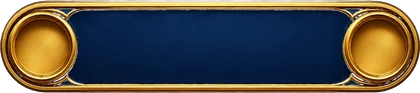
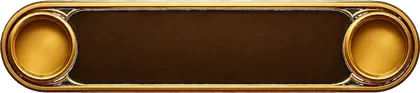
Theme The Unleashed Mine : noms de bonus, minerais, zones, regles, palette, polices ; visuels Higgsfield generes (a integrer)
Claude-Session: https://claude.ai/code/session_0176xjBfP9TdkYXfNsRHRQh2

diff --git a/demo/index.html b/demo/index.html
@@ -4,8 +4,8 @@
 <meta charset="utf-8">
 <meta name="viewport" content="width=device-width,initial-scale=1">
 <link rel="preconnect" href="https://fonts.googleapis.com"><link rel="preconnect" href="https://fonts.gstatic.com" crossorigin>
-<link rel="stylesheet" href="https://fonts.googleapis.com/css2?family=Cinzel:wght@600;800;900&family=Outfit:wght@400;600;800&display=swap">
-<title>Stellar Vigil — démo</title>
+<link rel="stylesheet" href="https://fonts.googleapis.com/css2?family=Alfa+Slab+One&family=Outfit:wght@400;600;800&display=swap">
+<title>The Unleashed Mine — démo</title>
 <style>
   :root{--bg:#0a0e1f;--panel:#121832;--line:#2a3566;--gold:#f3c969;--ink:#e9ecff;--dim:#8a93c4;--star:#8fd3ff;--win:#7dffb2}
   *{box-sizing:border-box}
@@ -299,11 +299,35 @@
   .stage.bonus .dock{margin-bottom:2px}
   button:focus-visible,select:focus-visible{outline:3px solid #fff3c4;outline-offset:2px}
   @media (prefers-reduced-motion:reduce){.cell.reel .strip{animation:none}.dock.crawl{filter:none}.cap.pop,.cap.big{animation:none}}
+  /* ===== Thème The Unleashed Mine : pierre, bois, ambre de lanterne ===== */
+  :root{--bg:#120c07;--panel:#24180e;--line:#5a3f22;--gold:#f0b13a;--ink:#f6e9d2;--dim:#b79b78;--star:#ffd27a;--win:#9dffb8}
+  body{background-color:#0d0804;background-image:linear-gradient(#0d0804d0,#0d0804aa 40%,#0d0804e8),url(art/bg.webp);background-size:cover;background-position:center top}
+  body::before,body::after{opacity:.18}
+  .logo{display:flex;flex-direction:column;align-items:center;justify-content:center;height:58px;margin:0 auto;mix-blend-mode:normal;line-height:.9;font-family:'Alfa Slab One','Georgia',serif;letter-spacing:.14em;text-align:center;filter:drop-shadow(0 3px 0 #3a1f08) drop-shadow(0 0 14px #f0a83066)}
+  .logo span{background:linear-gradient(#fff3c4,#f6b73c 55%,#a8641a);-webkit-background-clip:text;background-clip:text;color:transparent}
+  .logo span:first-child{font-size:15px;letter-spacing:.3em}
+  .logo span:last-child{font-size:30px;letter-spacing:.2em}
+  .stage{background:linear-gradient(160deg,#2e2014 0%,#1b120a 55%,#120b06 100%);border-color:#8a6026;box-shadow:0 0 0 1px #0d0804,0 0 0 3px #3a2410,0 10px 40px #000a,inset 0 0 40px #0008}
+  #base{background:#100a05;box-shadow:inset 0 0 22px #000c,0 0 0 2px #a8742c,0 0 0 4px #3a2410}
+  .cell{background:radial-gradient(circle at 50% 35%,#3a2a1b 0%,#1a1109 70%);border-color:#5a3f22}
+  .sky .cell{background:radial-gradient(circle at 50% 40%,#2a1d12 0%,#120b06 75%);border-color:#4a3320}
+  .zone,.cap,.bhead{background:linear-gradient(#2a1c10,#18100a);border-color:#6a4a26}
+  .cap{color:#f6e9d2}
+  .zone.done{background:linear-gradient(#5a3a10,#2a1a06)}
+  .pips i{background:#4a3320}
+  .hud b,.stepper .betval small{color:#d9b377}
+  .tools button{background:linear-gradient(#3a2814,#22160b);border-color:#8a6026;color:#f6e9d2}
+  .dock .ring{filter:none}
+  .rules .card,.card{background:#150d07f2}
+  .celeb{background:radial-gradient(circle,#0009,#000e)}
+  h1,.spinbtn,.buybtn small,.buybtn b,.tools button,.hud b,.ctier,.card h2,.card .tag,.bhead .bname,.rules h2,.rules h3,.cmult,.stepper .betval small,.cap em{font-family:'Alfa Slab One','Georgia',serif;font-weight:400;letter-spacing:.05em}
+  .spinbtn{font-size:12.5px;letter-spacing:.03em}
+  .bhead .bname{font-size:12px}
 </style>
 </head>
 <body>
 <div class="wrap">
-  <h1 class="vh">Stellar Vigil</h1><img class="logo" src="art/logo.webp" alt="Stellar Vigil">
+  <h1 class="vh">The Unleashed Mine</h1><div class="logo" role="img" aria-label="The Unleashed Mine"><span>THE UNLEASHED</span><span>MINE</span></div>
   <div class="sub">Démo jouable — rejoue de vrais résultats du moteur de maths (RTP 96 %). Argent fictif.</div>
   <div class="hud">
     <div><b>Solde</b><span id="bal">1000.00</span></div>
@@ -359,19 +383,19 @@
 <div class="flash" id="flash"></div>
 <div class="celeb hidden" id="celeb"><canvas id="cv"></canvas><div class="cbox"><div class="ctier" id="ctier"></div><div class="cnum" id="cnum">0.00</div><div class="cmult" id="cmult"></div><div class="ctap">Touchez pour continuer</div></div></div>
 <div class="rules hidden" id="rules"><div class="card">
-  <h2>Règles — Stellar Vigil</h2>
+  <h2>Règles — The Unleashed Mine</h2>
   <h3>Jeu de base</h3>
   <ul><li>Grille 5 × 4, 1 024 façons de gagner, gains de gauche à droite.</li>
-  <li>L'Étoile filante (wild) apparaît sur les colonnes 2 à 4 et remplace tous les symboles sauf la Lunette.</li>
-  <li>Une Étoile à valeur peut tomber sur n'importe quelle colonne et paie sur place de 0,2× à 10× la mise.</li></ul>
-  <h3>Nuit des Constellations</h3>
-  <ul><li>3, 4 ou 5 Lunettes déclenchent 10, 12 ou 15 nuits. Le nombre de nuits est fixe.</li>
-  <li>Chaque nuit, de 0 à 3 étoiles tombent sur un ciel de 5 × 5 ; elles y restent jusqu'à la fin du bonus.</li>
-  <li>Des étoiles voisines forment une constellation : chaque étoile gagne un niveau de valeur par lien, jusqu'à +3. Une étoile qui relie deux constellations ajoute un niveau de plus (conjonction).</li>
-  <li>Compléter une zone paie un multiplicateur fixe, une seule fois par bonus : Horizon (ligne du bas) 20×, Méridien (colonne centrale) 100×, Quadrature (les 4 coins) 1 000×, Firmament (ciel complet) 10 000×. Ces multiplicateurs ne sont pas progressifs.</li></ul>
-  <h3>Roues et bonus (version à deux roues)</h3>
-  <ul><li>Dans la version à deux roues, deux roues indépendantes tournent en même temps. La roue des Bonus choisit l'un des sept bonus : Constellations, Comètes, Nova, Croix de Lune, Pluie d'Étoiles, Éclipse ou Galaxie. La roue des Phases de Lune choisit sa richesse : croissant, quartier ou pleine lune (étoiles de plus en plus riches). Aucune des deux ne mène à l'autre.</li>
-  <li>Comètes : une comète traverse une ligne ou une colonne. Nova : un bloc de 4 étoiles. Croix de Lune : une croix de 5 étoiles. Pluie d'Étoiles : une étoile tombe dans chaque colonne. Éclipse : une diagonale d'étoiles. Galaxie : une spirale d'étoiles. Les chances de chaque roue sont celles mesurées sur le jeu.</li></ul>
+  <li>La Pépite géante (wild) apparaît sur les colonnes 2 à 4 et remplace tous les symboles sauf la Lampe.</li>
+  <li>Une Gemme à valeur peut tomber sur n'importe quelle colonne et paie sur place de 0,2× à 10× la mise.</li></ul>
+  <h3>Le bonus de la mine</h3>
+  <ul><li>3, 4 ou 5 Lampes ouvrent la mine : un nombre fixe de coups de pioche (de 2 à 15 selon le bonus tiré).</li>
+  <li>À chaque coup, des gemmes apparaissent sur une paroi de 5 × 5 ; elles y restent jusqu'à la fin du bonus.</li>
+  <li>Dans le Grand Filon, des gemmes voisines forment un filon : chaque gemme gagne un niveau de valeur par lien, jusqu'à +3. Une gemme qui relie deux filons ajoute un niveau de plus (croisement).</li>
+  <li>Compléter une zone paie un multiplicateur fixe, une seule fois par bonus : Galerie (ligne du bas) 20×, Puits central (colonne centrale) 100×, Piliers (les 4 coins) 1 000×, Mine pleine (paroi complète) 10 000×. Ces multiplicateurs ne sont pas progressifs.</li></ul>
+  <h3>Les deux roues</h3>
+  <ul><li>Deux roues indépendantes tournent en même temps. La roue des Bonus choisit l'un des huit bonus : Grand Filon, Wagonnet fou, Dynamite, Galeries croisées, Éboulement, Filon oblique, Foreuse ou Puits multiplicateurs. La roue des Minerais choisit sa richesse : cuivre, argent ou or (gemmes de plus en plus riches). Aucune des deux ne mène à l'autre.</li>
+  <li>Wagonnet fou : un wagonnet traverse une ligne ou une colonne. Dynamite : un bloc de 4 gemmes. Galeries croisées : une croix de 5 gemmes. Éboulement : une gemme tombe dans chaque colonne. Filon oblique : une diagonale de gemmes. Foreuse : une spirale de gemmes. Puits multiplicateurs : chaque colonne est un puits, ses gemmes valent leur somme multipliée par le nombre de gemmes qu'il contient. Les chances de chaque roue sont celles mesurées sur le jeu.</li></ul>
   <h3>Roue de sauvegarde</h3>
   <ul><li>En fin de bonus, si le total est inférieur à un plancher, la roue tourne. Plancher : 25× la mise pour un bonus déclenché en jeu normal ; 80× (le prix payé) pour un bonus acheté.</li>
   <li>La roue relève le total exactement jusqu'au plancher si elle tombe sur « sauvée ». Chance réelle mesurée sur ce jeu : environ <b id="oddsBuy">?</b> en achat, <b id="oddsBase">?</b> sur un bonus déclenché. Ce n'est pas un remboursement garanti.</li>
@@ -379,7 +403,7 @@
   <h3>Chiffres</h3>
   <ul><li>RTP théorique : 96,0 % dans tous les modes. Gain maximum : 10 000× la mise, extrêmement rare (environ 1 fois sur 10 millions en jeu normal).</li>
   <li>Le bonus se déclenche environ 1 spin sur 150 ; environ 28 % des spins gagnent.</li></ul>
-  <p class="warn">Démo à argent fictif : symboles et sons provisoires. Les résultats rejoués proviennent du moteur de maths mais ne constituent pas le jeu final soumis à Stake Engine.</p>
+  <p class="warn">Démo à argent fictif : visuels et sons provisoires. Les résultats rejoués proviennent du moteur de maths mais ne constituent pas le jeu final soumis à Stake Engine.</p>
   <div class="ctl"><button id="rulesclose">Fermer</button></div>
 </div></div>
 <script src="books.js"></script>
@@ -460,28 +484,29 @@ const flash=()=>{const f=$('flash'); f.classList.remove('go'); void f.offsetWidt
 const shake=()=>{const st=$('stage'); st.classList.remove('quake'); void st.offsetWidth; st.classList.add('quake'); setTimeout(()=>st.classList.remove('quake'),700)};
 function sfx(name,arg){ try{ SFX[name](arg) }catch(e){} }
 const ZONE_CELLS={Horizon:[0,1,2,3,4].map(r=>[r,4]),Meridien:[0,1,2,3,4].map(r=>[2,r]),Quadrature:[[0,0],[4,0],[0,4],[4,4]],Firmament:[...Array(25).keys()].map(i=>[Math.floor(i/5),i%5])};
-const ZONES=[['Horizon','Ligne du bas',20],['Meridien','Colonne centrale',100],['Quadrature','Les 4 coins',1000],['Firmament','Ciel complet',10000]];
+const ZONES=[['Horizon','Ligne du bas',20],['Meridien','Colonne centrale',100],['Quadrature','Les 4 coins',1000],['Firmament','Paroi complète',10000]];
+const ZLABEL={Horizon:'Galerie',Meridien:'Puits central',Quadrature:'Piliers',Firmament:'Mine pleine'};
 // --- Réglages d'affichage ---
 let speed=1, turbo=false, modeIdx=0, auto=false, bonusHit=false, savedSpeed=null;
 const sl=ms=>sleep(ms*(turbo?.25:speed));
 // --- Les bonus : nom, couleur, icône, explication ---
 const KINDS={
-  constellation:{name:'Nuit des Constellations',col:'#f3c969',txt:'Des étoiles se posent chaque nuit. Les étoiles voisines se relient et montent de niveau.',
+  constellation:{name:'Le Grand Filon',col:'#f3b33d',txt:'À chaque coup de pioche, des gemmes apparaissent. Les gemmes voisines se relient en filon et prennent de la valeur.',
     icon:'<g stroke="#f3c969" stroke-width="2" fill="none"><path d="M9 34 L22 16 L30 28 L40 10"/></g><g fill="#fff3c4"><circle cx="9" cy="34" r="4"/><circle cx="22" cy="16" r="4"/><circle cx="30" cy="28" r="4"/><circle cx="40" cy="10" r="4"/></g>'},
-  comet:{name:'Pluie de Comètes',col:'#5fd6ff',txt:'Chaque nuit, une comète traverse une ligne ou une colonne et pose une étoile sur chaque case libre.',
+  comet:{name:'Wagonnet Fou',col:'#7ec8e3',txt:'À chaque coup, un wagonnet traverse une ligne ou une colonne et dépose une gemme sur chaque case libre.',
     icon:'<path d="M6 42 L30 18" stroke="#5fd6ff" stroke-width="5" stroke-linecap="round" opacity=".5"/><path d="M12 38 L32 20" stroke="#bff0ff" stroke-width="3" stroke-linecap="round"/><circle cx="34" cy="16" r="8" fill="#e6fbff"/><circle cx="34" cy="16" r="12" fill="none" stroke="#5fd6ff" stroke-width="1.5" opacity=".6"/>'},
-  nova:{name:'Grande Nova',col:'#ffa63d',txt:'Chaque nuit, un bloc de 4 étoiles se pose d\'un coup.',
+  nova:{name:'Dynamite',col:'#ff7a2b',txt:'À chaque coup, une charge de dynamite fait jaillir un bloc de 4 gemmes d\'un coup.',
     icon:'<g fill="#ffd27a"><path d="M24 2 L28 20 L46 24 L28 28 L24 46 L20 28 L2 24 L20 20 Z"/></g><circle cx="24" cy="24" r="6" fill="#fff"/><circle cx="24" cy="24" r="14" fill="none" stroke="#ffa63d" stroke-width="2" opacity=".7"/>'}
 };
-KINDS.cross={name:'Croix de Lune',col:'#c58cff',txt:'Chaque nuit, une croix de 5 étoiles se pose sur le ciel.',
+KINDS.cross={name:'Galeries Croisées',col:'#c58cff',txt:'À chaque coup, une croix de 5 gemmes jaillit de la roche.',
     icon:'<path d="M24 4 V44 M4 24 H44" stroke="#c58cff" stroke-width="3" opacity=".6"/><g fill="#efdcff"><path d="M24 6 L27 21 L24 24 L21 21 Z"/><path d="M24 42 L27 27 L24 24 L21 27 Z"/><path d="M6 24 L21 21 L24 24 L21 27 Z"/><path d="M42 24 L27 21 L24 24 L27 27 Z"/></g><path d="M31 9 A11 11 0 1 0 31 21 A8 8 0 1 1 31 9Z" fill="#fff3c4" transform="translate(6,8) scale(.55)"/>'};
-KINDS.rain={name:"Pluie d'Étoiles",col:'#5fe0a4',txt:'Chaque nuit, une étoile tombe dans chaque colonne et se pose tout en bas.',
+KINDS.rain={name:'Éboulement',col:'#5fe0a4',txt:'À chaque coup, une gemme tombe dans chaque colonne et se pose tout en bas.',
     icon:'<g stroke="#5fe0a4" stroke-width="2.5" stroke-linecap="round" opacity=".55"><path d="M10 4 V22"/><path d="M24 12 V32"/><path d="M38 2 V20"/></g><g fill="#d6ffe9"><path d="M10 28 L13 36 L21 38 L13 40 L10 48 L7 40 L-1 38 L7 36Z" transform="translate(0,-8) scale(.9)"/><path d="M24 36 L27 42 L33 44 L27 46 L24 52 L21 46 L15 44 L21 42Z" transform="translate(0,-10)"/><path d="M38 24 L41 32 L49 34 L41 36 L38 44 L35 36 L27 34 L35 32Z" transform="translate(0,-4) scale(.8)"/></g>'};
-KINDS.eclipse={name:'Éclipse',col:'#ff7a7a',txt:'Chaque nuit, une ombre traverse le ciel en diagonale et allume une étoile sur chaque case libre.',
+KINDS.eclipse={name:'Filon Oblique',col:'#ff7a7a',txt:'À chaque coup, un filon traverse la paroi en diagonale et fait apparaître une gemme sur chaque case libre.',
     icon:'<circle cx="24" cy="24" r="13" fill="#2a1030" stroke="#ff7a7a" stroke-width="2"/><circle cx="24" cy="24" r="19" fill="none" stroke="#ffb0a0" stroke-width="1.5" stroke-dasharray="3 4" opacity=".8"/><path d="M6 42 L42 6" stroke="#fff3c4" stroke-width="2.5" stroke-linecap="round"/><circle cx="24" cy="24" r="4" fill="#fff3c4"/>'};
-KINDS.orbit={name:'Orbites',col:'#ffb04a',txt:'Chaque colonne est une orbite : ses étoiles valent leur somme multipliée par le nombre d\'étoiles qu\'elle contient.',
+KINDS.orbit={name:'Puits Multiplicateurs',col:'#ffb04a',txt:'Chaque colonne est un puits : ses gemmes valent leur somme multipliée par le nombre de gemmes qu\'il contient.',
     icon:'<ellipse cx="24" cy="24" rx="20" ry="8" fill="none" stroke="#ffb04a" stroke-width="2" transform="rotate(-25 24 24)"/><ellipse cx="24" cy="24" rx="20" ry="8" fill="none" stroke="#ffe39a" stroke-width="1.5" opacity=".6" transform="rotate(35 24 24)"/><circle cx="24" cy="24" r="8" fill="#ffd27a"/><circle cx="24" cy="24" r="4" fill="#fff"/><circle cx="40" cy="14" r="3" fill="#fff3c4"/><circle cx="9" cy="33" r="2.5" fill="#fff3c4"/>'};
-KINDS.galaxy={name:'Galaxie',col:'#ff9fe0',txt:"Chaque nuit, l'étoile suivante d'une spirale se pose, du bord du ciel vers son centre.",
+KINDS.galaxy={name:'La Foreuse',col:'#ff9fe0',txt:"À chaque coup, la foreuse creuse en spirale : la gemme suivante apparaît, du bord de la paroi vers son centre.",
     icon:'<path d="M24 24 m0 0 a4 4 0 0 1 8 0 a8 8 0 0 1 -16 0 a12 12 0 0 1 24 0 a16 16 0 0 1 -32 0" fill="none" stroke="#ff9fe0" stroke-width="2.5" stroke-linecap="round"/><g fill="#fff"><circle cx="24" cy="24" r="3.5"/><circle cx="40" cy="24" r="2.2"/><circle cx="8" cy="24" r="2.2"/><circle cx="24" cy="8" r="2"/></g>'};
 // Icônes générées avec Higgsfield (fond noir converti en transparence)
 KINDS.nova.icon='<image href="art/ic_nova.webp" x="0" y="0" width="48" height="48"/>';
@@ -491,10 +516,11 @@ const kindOf=v=>String(v||'constellation').replace(/\+/g,'');
 const tierOf=v=>1+(String(v||'').match(/\+/g)||[]).length;
 const setKind=v=>{curKind=kindOf(v); curTier=tierOf(v); curPlus=curTier>1; document.documentElement.style.setProperty('--bc',KINDS[curKind].col)};
 let curKind='constellation', curPlus=false, curTier=1;
-// Roue des Phases de Lune : elle décide de la richesse du bonus (niveau 1, 2 ou 3), indépendamment de la roue des Bonus.
-const TIER={1:{col:'#2b3a5a',name:'Croissant',icon:'<path d="M31 6 A18 18 0 1 0 31 42 A14 14 0 1 1 31 6Z" fill="#dfe6ff"/>'},
-  2:{col:'#5a4a2b',name:'Quartier de lune',icon:'<path d="M24 6 A18 18 0 0 0 24 42 Z" fill="#fff3c4"/><circle cx="24" cy="24" r="18" fill="none" stroke="#fff3c4" stroke-width="1.6" opacity=".7"/>'},
-  3:{col:'#8a6420',name:'Pleine lune',icon:'<circle cx="24" cy="24" r="22" fill="none" stroke="#ffe39a" stroke-width="2" opacity=".7"/><circle cx="24" cy="24" r="17" fill="#fff6cf"/><circle cx="18" cy="19" r="3" fill="#e8d98f"/><circle cx="29" cy="28" r="4" fill="#e8d98f"/>'}};
+// Roue des Minerais : elle décide de la richesse du bonus (cuivre, argent ou or), indépendamment de la roue des Bonus.
+const NUG=(c1,c2)=>`<path d="M8 32 L14 20 L24 16 L36 20 L41 31 L34 40 L18 41 Z" fill="${c1}" stroke="#2a1608" stroke-width="2" stroke-linejoin="round"/><path d="M14 20 L24 26 L36 20 M24 26 L18 41 M24 26 L34 40" fill="none" stroke="${c2}" stroke-width="1.6" opacity=".8"/><path d="M17 24 L22 21 L20 27Z" fill="#fff" opacity=".7"/>`;
+const TIER={1:{col:'#6b4026',name:'Cuivre',icon:NUG('#d27a43','#f2b184')},
+  2:{col:'#4a525c',name:'Argent',icon:NUG('#cfd6e0','#ffffff')},
+  3:{col:'#8a6420',name:'Or',icon:NUG('#ffd24a','#fff1a8')}};
 // --- Interface ---
 function cap(html,pop=true){const c=$('cap'); c.innerHTML='<span>'+html+'</span>'; if(pop){c.classList.remove('pop'); void c.offsetWidth; c.classList.add('pop')}}
 const banner=t=>cap(t);
@@ -502,7 +528,7 @@ function buildBoard(){const b=$('base');b.innerHTML='';for(let r=0;r<4;r++)for(l
 let skyVal={}, skyBase={};
 function buildSky(){ if($('orbits')) $('orbits').innerHTML='';const s=$('sky');s.innerHTML='';for(let r=0;r<5;r++)for(let c=0;c<5;c++){const d=document.createElement('div');d.className='cell';d.id=`s${c}_${r}`;s.appendChild(d)}
   $('links').innerHTML='';$('fx').innerHTML=''; skyVal={}; skyBase={};
-  $('zones').innerHTML=ZONES.map(z=>`<div class="zone" id="z${z[0]}"><b>${z[2]}×</b>${z[0]}<br>${z[1]}<i></i></div>`).join('')}
+  $('zones').innerHTML=ZONES.map(z=>`<div class="zone" id="z${z[0]}"><b>${z[2]}×</b>${ZLABEL[z[0]]}<br>${z[1]}<i></i></div>`).join('')}
 const SYMKEYS=Object.keys(SYM).filter(k=>k!=='S'&&k!=='W');
 // Les rouleaux défilent : une bande de symboles descend dans chaque case et s'arrête colonne après colonne.
 // Suspense : après deux Lunettes, les rouleaux restants ralentissent, la scène s'assombrit et un battement de coeur monte.
@@ -541,7 +567,7 @@ function paintSky(levels,fresh=new Set()){ // levels: [{reel,row,value}]
 function zoneProgress(){ZONES.forEach(z=>{const cells=ZONE_CELLS[z[0]],n=cells.filter(([c,r])=>skyVal[c+','+r]!==undefined).length;const el=$('z'+z[0]); el.querySelector('i').style.width=(100*n/cells.length)+'%'})}
 function buildPips(n){$('pips').innerHTML=Array.from({length:n},()=>'<i></i>').join('')}
 function setPip(night){[...$('pips').children].forEach((p,i)=>{p.className=i<night-1?'done':(i===night-1?'now':'')})}
-function setHead(){const k=KINDS[curKind]; $('bico').innerHTML=k.icon; $('bname').innerHTML=k.name+'+'.repeat(curTier-1)+`<small>${curTier>1?TIER[curTier].name+' : étoiles plus riches':'Bonus en cours'}</small>`}
+function setHead(){const k=KINDS[curKind]; $('bico').innerHTML=k.icon; $('bname').innerHTML=k.name+'+'.repeat(curTier-1)+`<small>${curTier>1?'Minerai : '+TIER[curTier].name.toLowerCase()+' · gemmes plus riches':'Bonus en cours'}</small>`}
 function drawLinks(cons){ // un arbre couvrant par constellation : lisible, sans la forêt de diagonales
   const g=$('links');g.innerHTML='';
   const p=(c,r)=>[(c+.5)*20,(r+.5)*20];
@@ -557,13 +583,13 @@ function showCard(html){const c=$('card'); c.innerHTML=html; c.classList.remove(
 function hideCard(){$('card').classList.add('hidden')}
 async function cardWait(ms){let done=false; const c=$('card'); const h=()=>{done=true}; c.addEventListener('click',h,{once:true}); const t0=performance.now(); while(!done&&performance.now()-t0<ms*(turbo?.25:speed)) await sleep(60); c.removeEventListener('click',h)}
 async function introCard(nights){const k=KINDS[curKind];
-  showCard(`<svg class="cico" viewBox="0 0 48 48">${k.icon}</svg>${curTier>1?`<div class="tag">${TIER[curTier].name.toUpperCase()}</div>`:''}<h2>${k.name}${'+'.repeat(curTier-1)}</h2><p>${k.txt}</p><div class="rows"><b>${nights}</b> nuits${curPlus?' · étoiles plus riches':''}</div><div class="tap">Touchez pour passer</div>`);
+  showCard(`<svg class="cico" viewBox="0 0 48 48">${k.icon}</svg>${curTier>1?`<div class="tag">${TIER[curTier].name.toUpperCase()}</div>`:''}<h2>${k.name}${'+'.repeat(curTier-1)}</h2><p>${k.txt}</p><div class="rows"><b>${nights}</b> coups${curPlus?' · gemmes plus riches':''}</div><div class="tap">Touchez pour passer</div>`);
   sfx(curKind); await cardWait(3600); hideCard()}
 async function summaryCard(total,bet){
   showCard(`<div class="tag">BONUS TERMINÉ</div><h2>${KINDS[curKind].name}${'+'.repeat(curTier-1)}</h2><div class="big" id="sumbig">0.0×</div><div class="rows" id="sumrows"></div><div class="tap">Touchez pour continuer</div>`);
   countTo($('sumbig'),0,total/100,1400); $('sumrows').innerHTML=`<b>${fmt(total*bet)}</b> gagnés sur une mise de ${bet.toFixed(2)}`; sfx(total>=8000?'upgrade':'win'); await cardWait(3200); hideCard()}
 // --- Roues au-dessus de la grille ---
-const RING_COL={constellation:'#2b3a86',comet:'#14607a',nova:'#8a3a1f',cross:'#5a2f86',rain:'#1b6b4c',eclipse:'#7a2f3a',galaxy:'#86306a',orbit:'#8a5a1f'};
+const RING_COL={constellation:'#7a5418',comet:'#2a5a70',nova:'#8a3a1f',cross:'#5a2f86',rain:'#1b6b4c',eclipse:'#7a2f3a',galaxy:'#86306a',orbit:'#6a4a2a'};
 const KIND_ORDER=['constellation','comet','nova','cross','rain','eclipse','galaxy','orbit'];
 function ringPath(s,e,r0,r1){const P=(a,r)=>{a=a*Math.PI/180;return (r*Math.sin(a)).toFixed(2)+' '+(-r*Math.cos(a)).toFixed(2)},L=(e-s)>180?1:0;
   return `M${P(s,r1)} A${r1} ${r1} 0 ${L} 1 ${P(e,r1)} L${P(e,r0)} A${r0} ${r0} 0 ${L} 0 ${P(s,r0)} Z`}
@@ -571,9 +597,9 @@ function wheelSegs(wheel,mode){const W=(window.WHEEL_ODDS||{})[mode]||{};
   const o1=Object.assign({constellation:.22,comet:.13,nova:.13,cross:.11,rain:.11,eclipse:.09,galaxy:.08,orbit:.13},W.kinds||{});
   const o2=Object.assign({1:.6,2:.3,3:.1},W.tiers||{});
   return wheel===1?KIND_ORDER.map(k=>[k,o1[k]]):[1,2,3].map(t=>['tier'+t,o2[t]])}
-const LABEL={constellation:'Constellations',comet:'Comètes',nova:'Nova',cross:'Croix de Lune',rain:"Pluie d'Étoiles",eclipse:'Éclipse',galaxy:'Galaxie',orbit:'Orbites'};
+const LABEL={constellation:'Grand Filon',comet:'Wagonnet fou',nova:'Dynamite',cross:'Galeries croisées',rain:'Éboulement',eclipse:'Filon oblique',galaxy:'Foreuse',orbit:'Puits'};
 // Chaque segment montre l'image de son bonus ou de sa phase (plus de texte ni de pourcentage).
-const SHORT={constellation:'Constell.',comet:'Comètes',nova:'Nova',cross:'Croix',rain:'Pluie',eclipse:'Éclipse',galaxy:'Galaxie',orbit:'Orbites',tier1:'Croissant',tier2:'Quartier',tier3:'Pleine'};
+const SHORT={constellation:'Filon',comet:'Wagonnet',nova:'Dynamite',cross:'Galeries',rain:'Éboulis',eclipse:'Oblique',galaxy:'Foreuse',orbit:'Puits',tier1:'Cuivre',tier2:'Argent',tier3:'Or'};
 function drawRing(id,segs,r0,r1){let a=0; const arcs=segs.map(([k,p])=>{const s=a;a+=p*360;return {k,s,e:a}}); const rm=(r0+r1)/2, band=r1-r0;
   $(id).innerHTML=arcs.map(x=>{const isT=x.k.startsWith('tier'),mid=(x.s+x.e)/2,fill=isT?TIER[+x.k[4]].col:RING_COL[x.k],icon=isT?TIER[+x.k[4]].icon:KINDS[x.k].icon;
     // image + nom : l'image en haut du segment, le nom en dessous (même sens que la roue)
@@ -609,7 +635,7 @@ async function spinRing(n,target){const arcs=ringArcs[n], x=arcs.find(a=>a.k===t
   const g=el.querySelector(`[data-k="${target}"]`); if(g) g.classList.add('hit')}
 async function spinSeasons(e){
   const mode=window.__mode||'base'; initDock(mode); setKind(e.variant);
-  cap('<em>Roue des Bonus</em> et <em>Roue des Phases</em> tournent ensemble…'); await sl(500);
+  cap('<em>Roue des Bonus</em> et <em>Roue des Minerais</em> tournent ensemble…'); await sl(500);
   await Promise.all([spinRing(1,e.kind||kindOf(e.variant)),spinRing(2,'tier'+(e.tier||tierOf(e.variant)))]);
   cap(`Bonus gagné : <em>${KINDS[curKind].name}${'+'.repeat(curTier-1)}</em>${curTier>1?' · '+TIER[curTier].name:''}`); await sl(1100)}
 // --- Roue de sauvegarde (fin de bonus), inchangée ---
@@ -651,36 +677,36 @@ async function playEvents(book,bet){
     case 'winInfo': sfx('win'); e.wins.forEach(w=>w.positions.forEach(p=>$(`b${p.reel}_${p.row-1}`)?.classList.add('win'))); cap('Gain <em>'+fmt(e.totalWin*bet)+'</em> &nbsp;×'+(e.totalWin/100)); await sl(1000); break;
     case 'starPrizes': sfx('win'); e.stars.forEach(p=>$(`b${p.reel}_${p.row-1}`)?.classList.add('win')); cap('Étoiles à valeur : <em>+'+(e.total/100).toFixed(1)+'×</em>'); await sl(1000); break;
     case 'freeSpinTrigger': bonusHit=true; if(auto){auto=false; paintSpin()} if(speed<1){savedSpeed=speed; speed=1} sfx('trigger'); flash(); shake(); document.querySelectorAll('.scat').forEach(x=>x.classList.add('win'));
-      cap(book.events.some(x=>x.type==='seasonWheel')?'<em>BONUS !</em> Les roues choisissent ton bonus':'<em>BONUS !</em> Nuit des Constellations — '+e.totalFs+' nuits'); await sl(1500);
+      cap(book.events.some(x=>x.type==='seasonWheel')?'<em>BONUS !</em> Les roues choisissent ton bonus':'<em>BONUS !</em> Le Grand Filon — '+e.totalFs+' coups'); await sl(1500);
       if(!book.events.some(x=>x.type==='seasonWheel')){setKind('constellation'); buildSky(); shownTotal=0; $('btotal').textContent='0.0×'; setHead(); buildPips(e.totalFs); viewBonus(true); await introCard(e.totalFs)}
       break;
     case 'seasonWheel': await spinSeasons(e); buildSky(); shownTotal=0; $('btotal').textContent='0.0×'; setHead(); buildPips(e.totalNights); viewBonus(true); await introCard(e.totalNights); break;
-    case 'nightStart': night=e.night; setPip(e.night); cap(`<em>Nuit ${e.night}</em> sur ${e.totalNights}`); sfx('night'); await sl(600); break;
+    case 'nightStart': night=e.night; setPip(e.night); cap(`<em>Coup ${e.night}</em> sur ${e.totalNights}`); sfx('night'); await sl(600); break;
     case 'starsLanded': {
       const fresh=new Set(e.stars.map(s=>s.reel+','+s.row)); $('sky').classList.add('focus'); extra.stars+=e.stars.length;
-      if(curKind==='comet'&&!e.stars.length){cap('☄ La comète ne trouve aucune case libre'); sfx('comet'); await sl(900)}
-      else if(curKind==='comet'){ const dir=e.stars.every(s=>s.row===e.stars[0].row)?`la ligne ${e.stars[0].row+1}`:`la colonne ${e.stars[0].reel+1}`; cap(`☄ Une comète traverse <em>${dir}</em> : ${e.stars.length} étoile${e.stars.length>1?'s':''}`); sfx('comet'); const d=fxComet(e.stars); await sleep(d*.55);
+      if(curKind==='comet'&&!e.stars.length){cap('Le wagonnet ne trouve aucune case libre'); sfx('comet'); await sl(900)}
+      else if(curKind==='comet'){ const dir=e.stars.every(s=>s.row===e.stars[0].row)?`la ligne ${e.stars[0].row+1}`:`la colonne ${e.stars[0].reel+1}`; cap(`Un wagonnet traverse <em>${dir}</em> : ${e.stars.length} gemme${e.stars.length>1?'s':''}`); sfx('comet'); const d=fxComet(e.stars); await sleep(d*.55);
         for(const [i,st] of e.stars.entries()){drawStar($(`s${st.reel}_${st.row}`),st.value/100,'fresh'); skyVal[st.reel+','+st.row]=st.value/100; sfx('star',st.value/100); await sl(130)} await sl(500)}
-      else if(curKind==='nova'){ cap(`✦ <em>Nova !</em> Un bloc de ${e.stars.length} étoiles se pose`); sfx('nova'); const d=fxNova(e.stars); await sleep(d);
+      else if(curKind==='nova'){ cap(`<em>Boum !</em> Un bloc de ${e.stars.length} gemmes se pose`); sfx('nova'); const d=fxNova(e.stars); await sleep(d);
         e.stars.forEach((st,i)=>{setTimeout(()=>sfx('star',st.value/100),i*90)}); paintSky(e.stars.map(s=>({reel:s.reel,row:s.row,value:s.value})),fresh); await sl(900)}
       else if(['cross','rain','eclipse','galaxy','orbit'].includes(curKind)){
-        const T={cross:`✚ Une <em>croix de lune</em> se pose : ${e.stars.length} étoile${e.stars.length>1?'s':''}`,rain:`🌠 <em>Pluie d'étoiles</em> : ${e.stars.length} étoile${e.stars.length>1?'s':''} tombent`,
-          orbit:`🪐 Les étoiles tombent sur leurs <em>orbites</em> : ${e.stars.length}`,eclipse:`🌑 Une <em>éclipse</em> traverse le ciel : ${e.stars.length} étoile${e.stars.length>1?'s':''}`,galaxy:`🌀 La <em>galaxie</em> tourne : ${e.stars.length} étoile${e.stars.length>1?'s':''}`};
-        cap(e.stars.length?T[curKind]:'Rien ne se pose cette nuit'); sfx(curKind);
+        const T={cross:`Une <em>croix de galeries</em> se pose : ${e.stars.length} gemme${e.stars.length>1?'s':''}`,rain:`<em>Éboulement</em> : ${e.stars.length} gemme${e.stars.length>1?'s':''} tombent`,
+          orbit:`Les gemmes tombent sur leurs <em>puits</em> : ${e.stars.length}`,eclipse:`Un <em>filon oblique</em> traverse la paroi : ${e.stars.length} gemme${e.stars.length>1?'s':''}`,galaxy:`La <em>foreuse</em> creuse : ${e.stars.length} gemme${e.stars.length>1?'s':''}`};
+        cap(e.stars.length?T[curKind]:'Rien ne se pose ce coup'); sfx(curKind);
         if(curKind==='cross'&&e.stars.length){const d=fxNova(e.stars); await sleep(d*.5)}
         const seq=curKind==='eclipse'?[...e.stars].sort((a,b)=>a.reel-b.reel):e.stars; const gap=curKind==='rain'?160:230;
         const colN=r=>Object.keys(skyVal).filter(k=>+k.split(',')[0]===r).length+e.stars.filter(x=>x.reel===r).length;
         for(const st of seq){const v=curKind==='orbit'?st.value/100*colN(st.reel):st.value/100; drawStar($(`s${st.reel}_${st.row}`),v,'fresh'); skyVal[st.reel+','+st.row]=v; sfx('star',v); await sl(gap)} await sl(500)}
-      else { cap(`✦ <em>${e.stars.length?e.stars.length:'Aucune'}</em> étoile${e.stars.length>1?'s':''} se pose${e.stars.length>1?'nt':''}`); e.stars.forEach((st,i)=>setTimeout(()=>sfx('star',st.value/100),i*140)); paintSky(e.stars.map(s=>({reel:s.reel,row:s.row,value:s.value})),fresh); await sl(700+e.stars.length*140)}
+      else { cap(`<em>${e.stars.length?e.stars.length:'Aucune'}</em> gemme${e.stars.length>1?'s':''} se pose${e.stars.length>1?'nt':''}`); e.stars.forEach((st,i)=>setTimeout(()=>sfx('star',st.value/100),i*140)); paintSky(e.stars.map(s=>({reel:s.reel,row:s.row,value:s.value})),fresh); await sl(700+e.stars.length*140)}
       zoneProgress(); break}
-    case 'constellationsUpdate': { if(e.orbits&&!e._orb){ e._orb=true; e.stars.forEach(st=>{st.value=st.value*Math.max(1,e.orbits[st.reel])}) } if(e.orbits){showOrbits(e.orbits,true); cap('🪐 <em>Orbites</em> : '+e.orbits.map(n=>'×'+Math.max(1,n)).join(' · ')); }
+    case 'constellationsUpdate': { if(e.orbits&&!e._orb){ e._orb=true; e.stars.forEach(st=>{st.value=st.value*Math.max(1,e.orbits[st.reel])}) } if(e.orbits){showOrbits(e.orbits,true); cap('<em>Puits</em> : '+e.orbits.map(n=>'×'+Math.max(1,n)).join(' · ')); }
       const sizes=e.constellations.map(c=>c.length).sort((a,b)=>b-a); $('sky').classList.remove('focus');
       const before={...skyVal}; paintSky(e.stars,new Set()); drawLinks(e.constellations); zoneProgress();
       const ups=Object.keys(skyVal).filter(k=>before[k]!==undefined&&skyVal[k]>before[k]).length;
-      if(sizes.length){sfx('link'); cap(`🔗 Constellation de <em>${sizes[0]} étoiles</em>${ups?` : ${ups} étoile${ups>1?'s':''} gagne${ups>1?'nt':''} de la valeur`:''}${e.conjunctions?`<br>Conjonction ×${e.conjunctions} : une étoile relie deux constellations`:''}`)} 
+      if(sizes.length){sfx('link'); cap(`Filon de <em>${sizes[0]} gemmes</em>${ups?` : ${ups} gemme${ups>1?'s':''} gagne${ups>1?'nt':''} de la valeur`:''}${e.conjunctions?`<br>Croisement ×${e.conjunctions} : une gemme relie deux filons`:''}`)} 
       await sl(sizes.length?1500:500); break}
-    case 'zonesComplete': sfx('zone'); shake(); extra.zones+=e.zones.reduce((a,z)=>a+z.win,0); e.zones.forEach(z=>{$('z'+z.name)?.classList.add('done')}); cap('🏆 PALIER <em>'+e.zones.map(z=>z.name+' +'+(z.win/100)+'×').join(' et ')+'</em>'); await sl(1700); break;
-    case 'nightPayout': total=e.total; setTotal(e.total,800); cap(e.amount>0?`Nuit ${night} : <em>+${(e.amount/100).toFixed(1)}×</em>`:`Nuit ${night} : rien de nouveau`); if(e.amount>0) sfx('win'); await sl(900); break;
+    case 'zonesComplete': sfx('zone'); shake(); extra.zones+=e.zones.reduce((a,z)=>a+z.win,0); e.zones.forEach(z=>{$('z'+z.name)?.classList.add('done')}); cap('PALIER <em>'+e.zones.map(z=>(ZLABEL[z.name]||z.name)+' +'+(z.win/100)+'×').join(' et ')+'</em>'); await sl(1700); break;
+    case 'nightPayout': total=e.total; setTotal(e.total,800); cap(e.amount>0?`Coup ${night} : <em>+${(e.amount/100).toFixed(1)}×</em>`:`Coup ${night} : rien de nouveau`); if(e.amount>0) sfx('win'); await sl(900); break;
     case 'saverWheel': cap('Roue de sauvegarde…'); await spinWheel(e); setTotal(e.total,500); break;
     case 'freeSpinEnd': await summaryCard(e.amount,bet); viewBonus(false); break;
     case 'finalWin': break;
@@ -688,7 +714,7 @@ async function playEvents(book,bet){
   }
 }
 
-// --- Célébration des gros gains : paliers, compteur et pluie d'étoiles ---
+// --- Célébration des gros gains : paliers, compteur et pluie de gemmes ---
 const TIERS=[[1000,'Légendaire'],[250,'Épique'],[100,'Méga gain'],[50,'Super gain'],[20,'Gros gain']];
 let burstRaf=0;
 function startBurst(strength){const cv=$('cv'), ctx=cv.getContext('2d'); cv.width=innerWidth; cv.height=innerHeight; const W=cv.width,H=cv.height, P=[]; cancelAnimationFrame(burstRaf);

diff --git a/docs/ART_PROVENANCE.md b/docs/ART_PROVENANCE.md
@@ -71,3 +71,28 @@ Générés, non intégrés (pas dans `demo/art/`) :
 | Lune : pleine | ce0c56d6-fdb6-4c78-aad9-3eed43f9b393 |
 
 Notes : les icônes Nova, Croix de Lune et Orbites sont désormais intégrées (les mentions « non intégrées » des ajouts précédents sont à lire en conséquence) ; la plaque bleue fa8fbab4 figurait déjà dans la liste des visuels de menu non intégrés de l'ajout du 2026-10-12. Les polices Cinzel et Outfit sont chargées depuis Google Fonts : leurs licences sont à vérifier avant toute publication.
+
+## Ajout (2026-10-14) : thème « The Unleashed Mine » (visuels générés, non intégrés)
+Générés avec `gpt_image_2_5` (fond noir, sans texte sauf le logo, aucune référence ni nom de marque). Le titre « The Unleashed Mine » est à vérifier (marques EUIPO / INPI / USPTO) avant toute publication.
+| Rôle | Job Higgsfield |
+|---|---|
+| Symbole H1 : pioche dorée | b4343a83-febe-411b-94ad-963a5f925490 |
+| Symbole H2 : wagonnet d'or | e7b38aba-ec19-4194-970d-e5adc59b2f88 |
+| Symbole H3 : lanterne | 639fd21d-4161-4688-8eb5-0d00df9a22d3 |
+| Symbole H4 : dynamite | 38d9081c-5a47-40b5-bb2b-d8dc6f2dd1df |
+| Wild : pépite géante | 939c4cb7-946c-4030-a5ce-d6e8a33af063 |
+| Scatter : casque de mineur | 6ac07b2d-90af-4f3a-ad18-cc798bbbf201 |
+| Gemme à valeur | db8f9eaf-056a-4340-a8c9-2d1795f1138b |
+| Fond : tunnel de mine | a1d7631f-871e-45d1-ad7c-f68c09298f0d |
+| Logo | 40e7b783-9ed0-4c6a-bf41-e81a63efc42f |
+| Bonus Grand Filon | 6cefa914-155a-407d-84a5-163dd904338f |
+| Bonus Wagonnet fou | d53f2e2d-bf8e-4c59-b194-3061ae1dc4b8 |
+| Bonus Galeries croisées | ec4cb609-2d4a-4e1d-bbb1-47db3afd797c |
+| Bonus Éboulement | b842758f-8ca4-4885-8afb-87f083c4bbb6 |
+| Bonus Filon oblique | af8dce3b-a9ac-464e-a1f5-c2282a3a0681 |
+| Bonus Foreuse | 18b65b7f-b803-40c2-8539-819781b0534b |
+| Bonus Puits multiplicateurs | 5f30420c-ce12-4299-aab2-ce77436b52b9 |
+| Minerai cuivre | 36da17ee-3804-43e0-9cbb-a0d0e7812e83 |
+| Minerai argent | 87e6bbdd-c39f-4d6f-9a95-112386f8518d |
+| Minerai or | b3dca202-2fbe-432c-90e2-5f6e1bba0efc |
+La version « espace » du jeu reste disponible (étiquette git `theme-espace-v1`).
